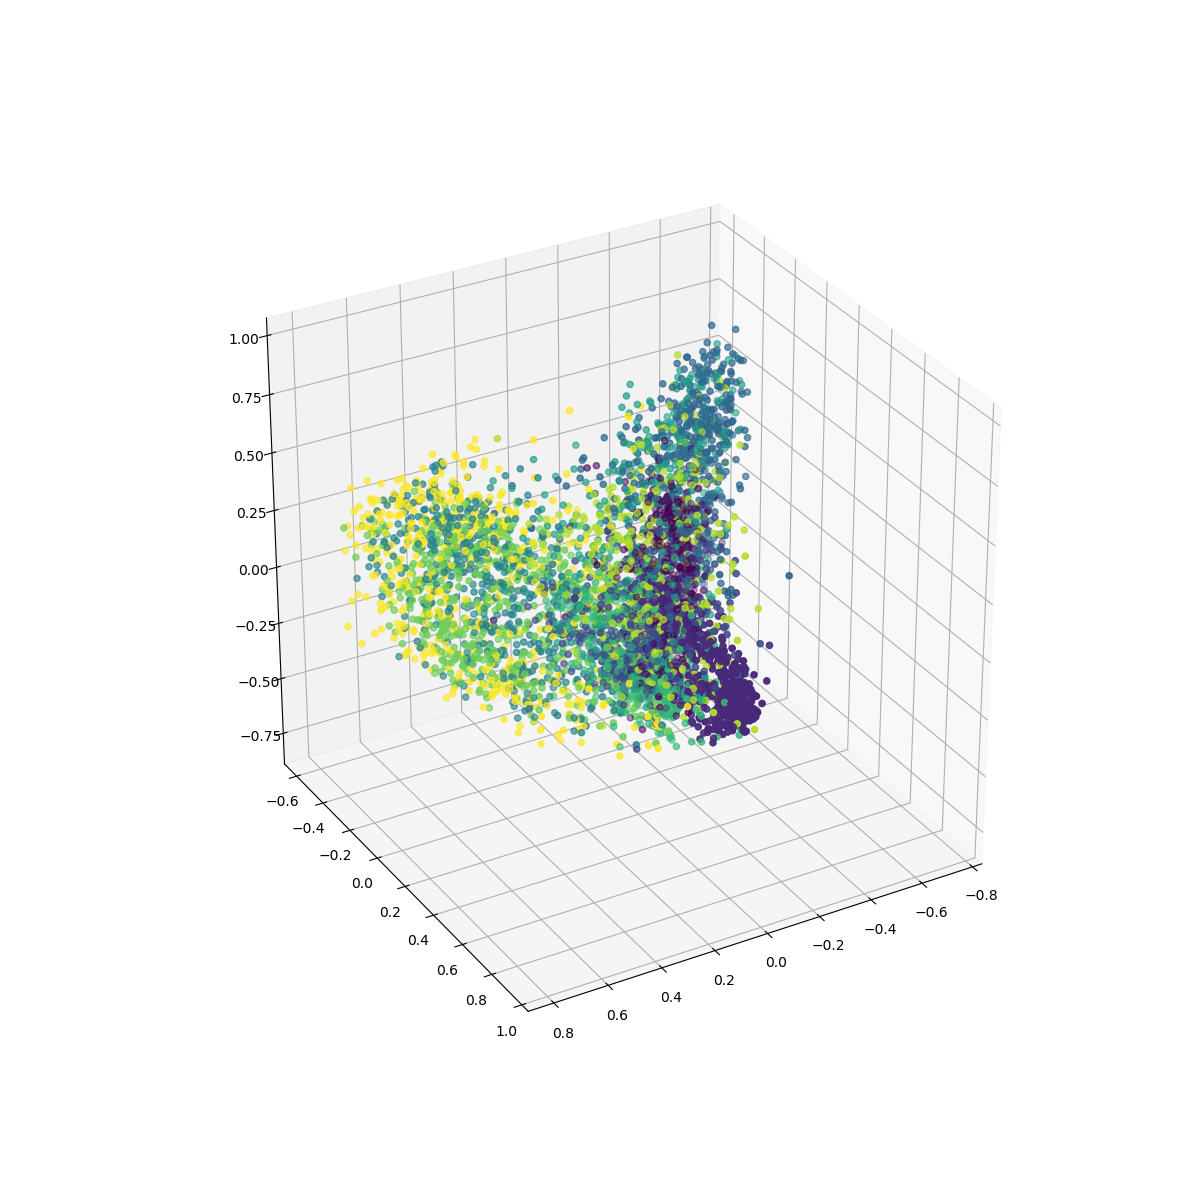
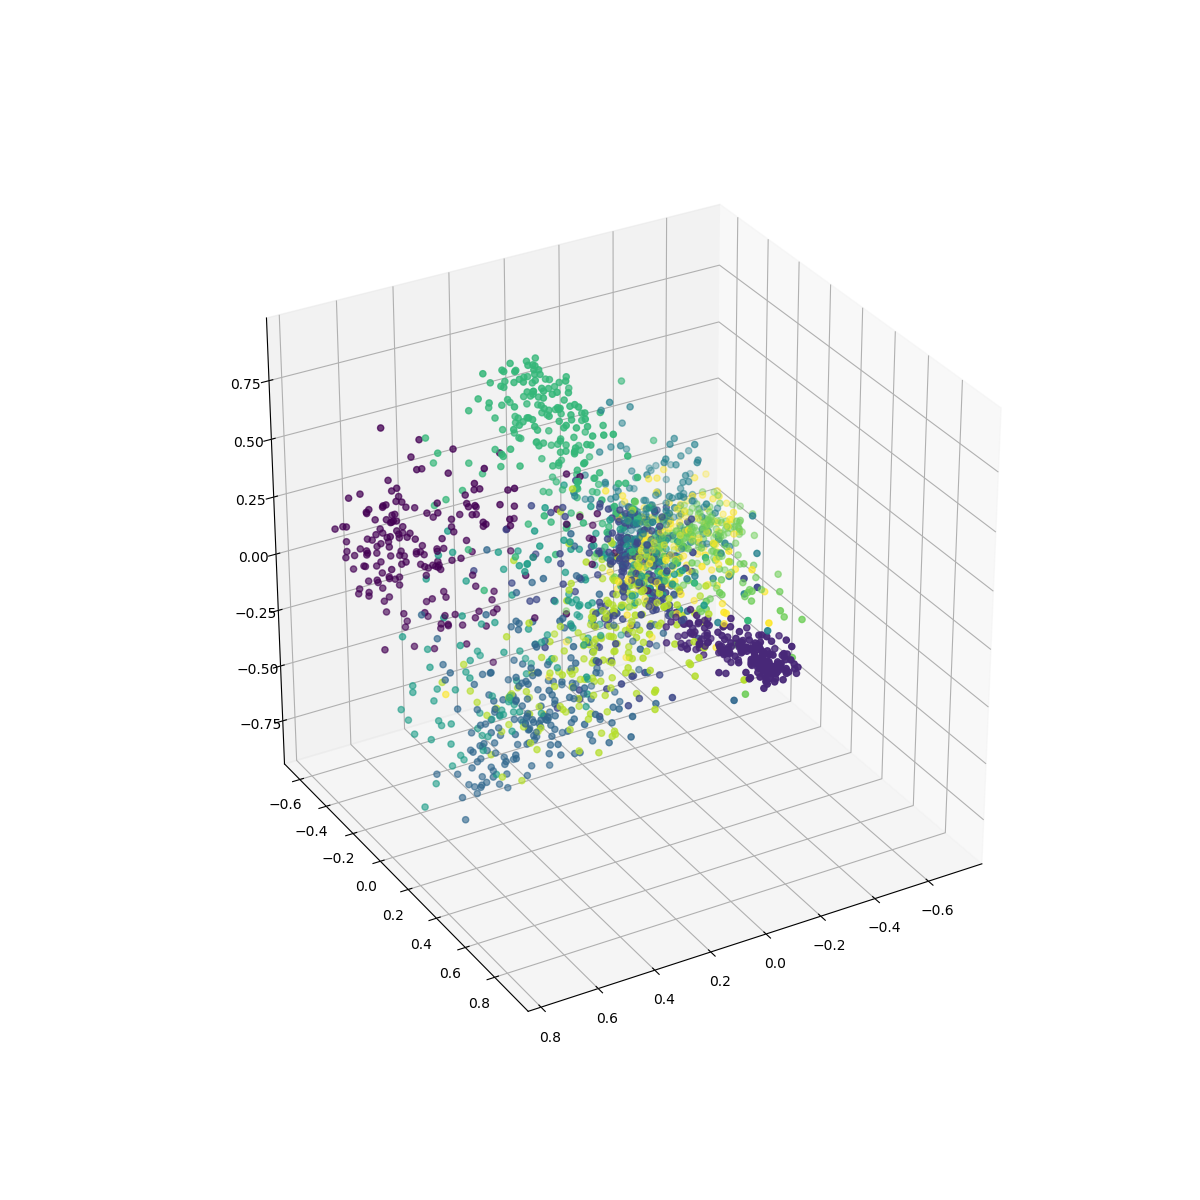
Incremental commit

diff --git a/pr2.py b/pr2.py
@@ -4,9 +4,9 @@ from shared_imports import *
 sim_dist_method = "cosine"
 if(len(sys.argv) > 1):
     if sys.argv[1] == "euclid":
-        sim_dist_method == "Euclidean distance"
+        sim_dist_method = "Euclidean distance"
     elif sys.argv[1] == "knn":
-        sim_dist_method == "KNN"
+        sim_dist_method = "KNN"
 
 # problem 2 part 1 - use a spectral embedding method (or two) to embed the MNIST data and evaluate
 #                    how well distances are preserved
@@ -36,8 +36,7 @@ csim_hd = measure(X_train, sim_dist_method=sim_dist_method)
 # in practice this is super difficult to parse!
 component_sweep = [784, 400, 200, 100, 50, 10, 3]
 
-#for embed_method in ["PCA", "Laplacian eigenmaps"]:
-for embed_method in ["VAE"]:
+for embed_method in ["PCA", "Laplacian eigenmaps", "VAE"]:
     print("Embedding method: " + embed_method)
     print("Similarity/distance: " + sim_dist_method)
     if sim_dist_method != "KNN":
@@ -47,7 +46,6 @@ for embed_method in ["VAE"]:
     for n_components in component_sweep:
         report_embedding(X_train, y_train, X_test, y_test, n_components, csim_hd, embed_method, sim_dist_method)
 
-'''
 # plot the 3D embedding (PCA)
 X_transformed = embed(X_train, y_train, X_test, y_test, 3, embed_method="PCA")
 df = pd.DataFrame({'X': X_transformed[:,0], 'Y': X_transformed[:,1], 'Z': X_transformed[:,2], 'label': y_train })
@@ -77,4 +75,3 @@ ax = fig.add_subplot(111, projection='3d')
 ax.scatter(df['X'], df['Y'], df['Z'], c=df['label'], cmap='viridis', s=20)
 ax.view_init(30, 60)
 plt.savefig("plots/VAE_embedding.png")
-'''

diff --git a/shared_imports.py b/shared_imports.py
@@ -222,7 +222,7 @@ def vae_embed(X_train, y_train, X_test, y_test, latent_dim=3, epochs=10, verbose
     vae.add_loss(vae_loss)
     vae.compile(optimizer='adam')
 
-    vae.fit(X_train, epochs=epochs, batch_size=batch_size, validation_data=(X_test, None))
+    vae.fit(X_train, epochs=epochs, batch_size=batch_size, validation_data=(X_test, None), verbose=verbose)
 
     if verbose > 0 and latent_dim == 2:
         # plot diagnostics
@@ -278,7 +278,6 @@ def embed(X_train, y_train, X_test, y_test, n_components, embed_method="PCA", ep
     elif embed_method == "VAE":
         encoder = vae_embed(X_train, y_train, X_test, y_test, latent_dim=n_components, epochs=epochs)
         X_transformed, _, _ = encoder.predict(X_train, batch_size=128)
-        print(X_transformed.shape)
     else:
         pca = decomposition.PCA(n_components=n_components)
         pca.fit(X_train)
